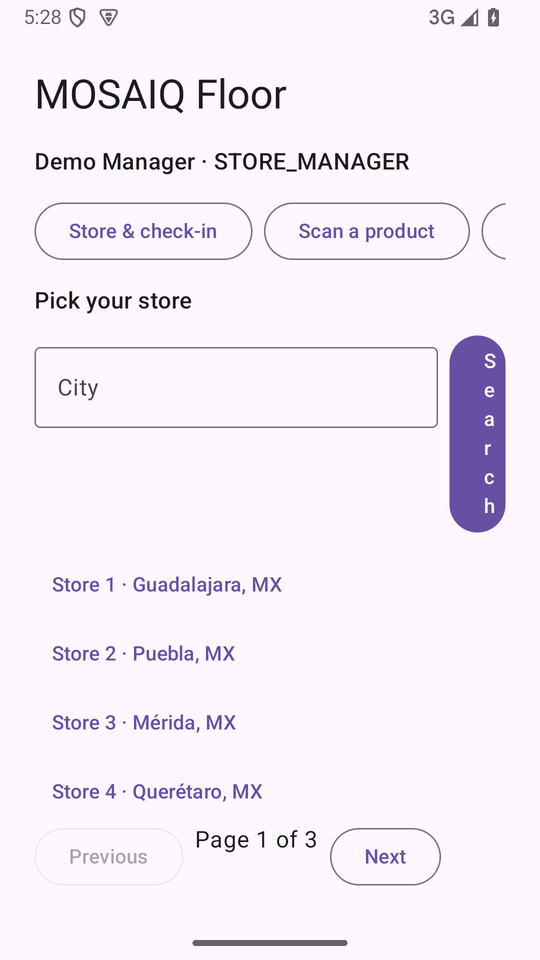
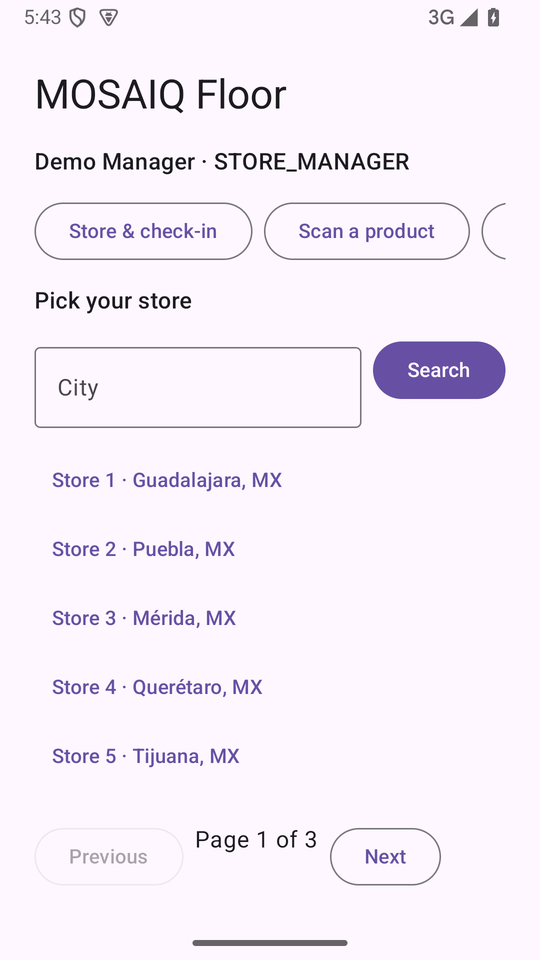
docs(evidence): retake the store picker at 375dp with the search button fixed (#718)

diff --git a/docs/evidence/718-android-insets-and-scrolling.md b/docs/evidence/718-android-insets-and-scrolling.md
@@ -11,7 +11,7 @@ alone, and an old API level had to be checked.
 |---|---|
 | Emulators | Android Emulator 37.2.12 on Windows (WHPX). `system-images;android-35;google_apis;x86_64` (API 35) and `system-images;android-29;google_apis;x86_64` (API 29, Android 10) |
 | Screen | 1080 × 1920 at `wm density 461`, which is 375dp wide. The short-screen shots use `wm size 1080x1280`, which is 375 × 444dp. Both were reset afterwards |
-| App | The debug build of `rs/737` at `f457b06`, base URL `http://10.0.2.2:8080/` |
+| App | The debug build of `rs/737` at `8373fe5` (the sign-in screens were taken at `f457b06`; nothing in them changed), base URL `http://10.0.2.2:8080/` |
 | Backend | **Not the real stack.** A throwaway fake gateway (a small Python HTTP server, not committed) answered `POST /api/auth/v1/sessions`, `GET /api/users/v1/users/me` and `GET /api/stores/v1/stores`, with 60 stores in three pages of 20 and the response shapes of `contracts/auth`, `contracts/users` and `contracts/stores`. The 15-service stack was not started: it was not built on this machine. These screens are about layout, not about what a service answers |
 | Screenshots | `screencap` at half size, as in [`445-android-screens.md`](445-android-screens.md) |
 
@@ -47,11 +47,16 @@ the list and after scrolling it.
 |---|---|---|---|
 | ![API 35](718-android-store-picker-375dp-api35.png) | ![API 35 scrolled](718-android-store-picker-scrolled-375dp-api35.png) | ![API 29](718-android-store-picker-375dp-api29.png) | ![API 29 scrolled](718-android-store-picker-scrolled-375dp-api29.png) |
 
-**A defect these screens show, outside this change:** at 375dp the City field
-and the Search button share one `Row` with no weights, so the field takes the
-width and the Search button is squeezed into a column of single letters. The
-`Row` is unchanged by this branch (it is only re-indented); the issue's 375dp
-check is what exposes it. A `Modifier.weight(1f)` on the field would fix it.
+These screens were retaken after a fix. The first run of this evidence showed
+the Search button squeezed into a column of single letters at 375dp: the City
+field and the Search button shared a `Row`, and only the button was left what
+the field did not take. The field now has `Modifier.weight(1f)`, so the button
+keeps its own width (commit "keep the store search button its own width at
+375dp"). `StorePickerLayoutTest` guards it: it fails with 32dp without the
+weight and passes with it. The Scan screen's manual-entry `Row` already had the
+weight, and the Check-in tab has no text field in a `Row`:
+
+![Scan, manual entry, API 35](718-android-scan-manual-entry-375dp-api35.png)
 
 ## `PermissionDeniedInstrumentedTest` against the new `FloorHome` modifiers
 
@@ -60,8 +65,8 @@ The test calls `FloorHome` directly and now gets a filled parent. It carries
 `-g`); `clients/android/run-denied-permission-tests.sh` runs it without `-g`.
 
 ```text
-API 35 (mosaiq-shots):  OK (2 tests), Time: 6.688
-API 29 (mosaiq-api29):  OK (2 tests), Time: 7.408
+API 35 (mosaiq-shots):  OK (2 tests), Time: 9.418
+API 29 (mosaiq-api29):  OK (2 tests), Time: 6.694
 ```
 
 Both tests ran: `aDeniedCameraExplainsWhyAndOffersManualEntry` and
